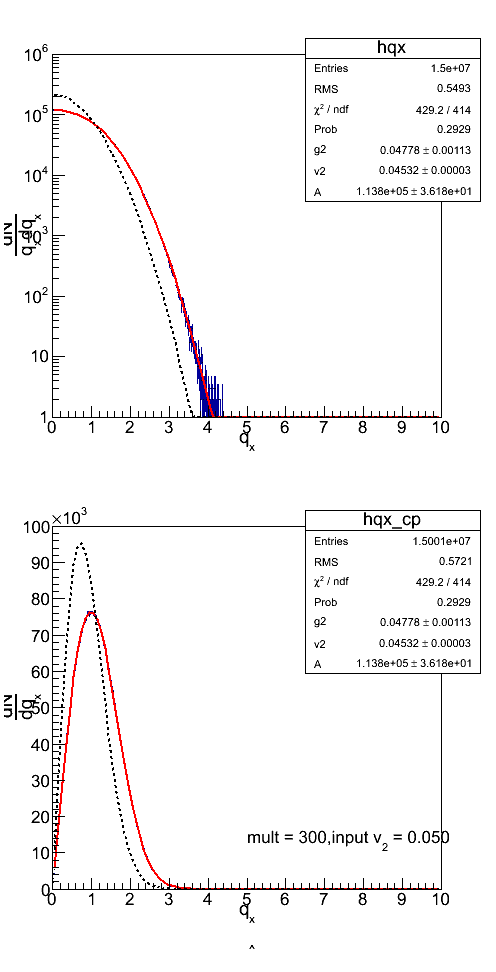
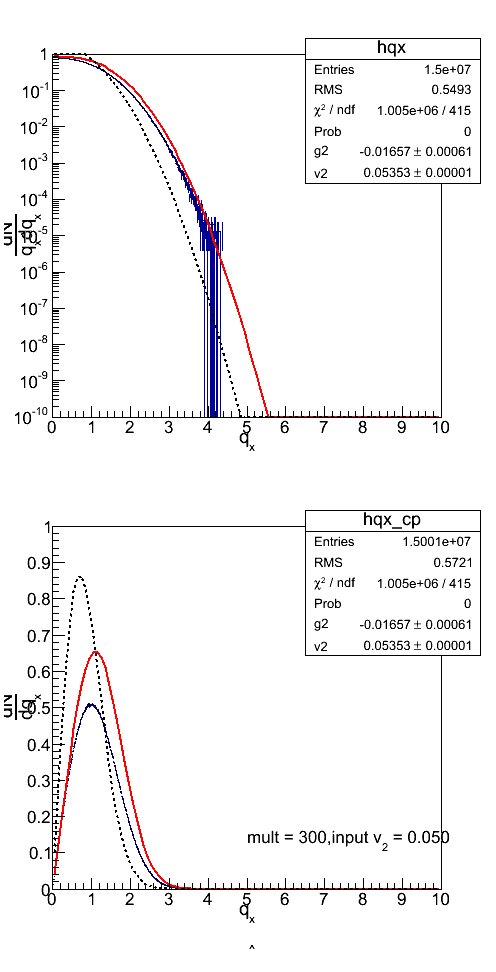
besselrefit

diff --git a/flow/Bessfun/pPbDataV205m300/plotqfit.C b/flow/Bessfun/pPbDataV205m300/plotqfit.C
@@ -17,24 +17,24 @@ t->SetTextFont(42);
 TH1D* hq = (TH1D*)f->Get(Form("D_%d/D_%d/hq",xbin,xtheta));
 TH1D* hqx = (TH1D*)f->Get(Form("D_%d/hqx",xbin));
 TH1D* hqy = (TH1D*)f->Get(Form("D_%d/hqy",xbin));
-        //hq->Scale(1./hq->Integral(0,-1));
+        hq->Scale(1./hq->Integral(0,-1,"width"));
         // multiplyByBinCenter(hq[ibin][itheta]);
         //normalizeByBinWidth(hq);
-        //hqx->Scale(1./hqx->Integral(0,-1));
+        hqx->Scale(1./hqx->Integral(0,-1,"width"));
         //multiplyByBinCenter(hqx[ibin]);
         //normalizeByBinWidth(hqx);
-        //hqy->Scale(1./hqy->Integral(0,-1));
+        hqy->Scale(1./hqy->Integral(0,-1,"width"));
         //multiplyByBinCenter(hqy[ibin]);
         //normalizeByBinWidth(hqy);
-ffit = new TF1(Form("ffit"),"[3]/(0.5*(1+[0]))*TMath::Exp(-([1]*[1]*[2]+x*x)/(1+[0]))*TMath::BesselI0(x*[1]*TMath::Sqrt([2])/(0.5*(1+[0])))",0,10);
-ffit0 = new TF1(Form("ffit0"),"[3]/(0.5*(1+[0]))*TMath::Exp(-([1]*[1]*[2]+x*x)/(1+[0]))*TMath::BesselI0(x*[1]*TMath::Sqrt([2])/(0.5*(1+[0])))",0,10);
-f1fit = new TF1(Form("f1fit"),"[3]*x/(0.5*(1+[0]))*TMath::Exp(-([1]*[1]*[2]+x*x)/(1+[0]))*TMath::BesselI0(x*[1]*TMath::Sqrt([2])/(0.5*(1+[0])))",0,10);
-f1fit0 = new TF1(Form("f1fit0"),"[3]*x/(0.5*(1+[0]))*TMath::Exp(-([1]*[1]*[2]+x*x)/(1+[0]))*TMath::BesselI0(x*[1]*TMath::Sqrt([2])/(0.5*(1+[0])))",0,10);
-ffit->SetParNames("g2","v2","M","A");
-ffit->SetParameters(0.05,0.05,avgmult[xbin],1e5);
+ffit = new TF1(Form("ffit"),"1./(0.5*(1+[0]))*TMath::Exp(-([1]*[1]*[2]+x*x)/(1+[0]))*TMath::BesselI0(x*[1]*TMath::Sqrt([2])/(0.5*(1+[0])))",0,10);
+ffit0 = new TF1(Form("ffit0"),"1./(0.5*(1+[0]))*TMath::Exp(-([1]*[1]*[2]+x*x)/(1+[0]))*TMath::BesselI0(x*[1]*TMath::Sqrt([2])/(0.5*(1+[0])))",0,10);
+f1fit = new TF1(Form("f1fit"),"x/(0.5*(1+[0]))*TMath::Exp(-([1]*[1]*[2]+x*x)/(1+[0]))*TMath::BesselI0(x*[1]*TMath::Sqrt([2])/(0.5*(1+[0])))",0,10);
+f1fit0 = new TF1(Form("f1fit0"),"x/(0.5*(1+[0]))*TMath::Exp(-([1]*[1]*[2]+x*x)/(1+[0]))*TMath::BesselI0(x*[1]*TMath::Sqrt([2])/(0.5*(1+[0])))",0,10);
+ffit->SetParNames("g2","v2","M");
+ffit->SetParameters(0.2,0.05,avgmult[xbin]);
 ffit->FixParameter(2,avgmult[xbin]);
-f1fit->SetParNames("g2","v2","M","A");
-f1fit->SetParameters(0.05,0.05,avgmult[xbin],1e5);
+f1fit->SetParNames("g2","v2","M");
+f1fit->SetParameters(0.2,0.05,avgmult[xbin]);
 f1fit->FixParameter(2,avgmult[xbin]);
 hq->Fit(Form("ffit"),"R","P",0,10);
 TCanvas *c2 = new TCanvas("c2","c2",500,1000);
@@ -44,9 +44,9 @@ fixedFontHist(hqx,1.6,2.0);
 hqx->SetTitle("");
 hqx->GetXaxis()->SetTitle("q_{x}");
 hqx->GetYaxis()->SetTitle("#frac{dN}{q_{x}dq_{x}}");
-hqx->GetYaxis()->SetRangeUser(1,1e6);
+hqx->GetYaxis()->SetRangeUser(1e-10,1);
 hqx->Fit(Form("ffit"),"R","",0,10);
-ffit0->SetParameters(ffit->GetParameter(0),0,ffit->GetParameter(2),ffit->GetParameter(3));
+ffit0->SetParameters(ffit->GetParameter(0),0,ffit->GetParameter(2));
 ffit0->SetLineColor(1);
 ffit0->SetLineStyle(2);
 ffit0->Draw("same");
@@ -55,9 +55,9 @@ TH1D* hqx_cp = (TH1D*)hqx->Clone("hqx_cp");
 fixedFontHist(hqx_cp,1.6,2.0);
 multiplyByBinCenter(hqx_cp);
 hqx_cp->GetYaxis()->SetTitle("#frac{dN}{dq_{x}}");
-hqx_cp->GetYaxis()->SetRangeUser(0,1e5);
+hqx_cp->GetYaxis()->SetRangeUser(0,1);
 hqx_cp->Fit(Form("f1fit"),"R","",0,10);
-f1fit0->SetParameters(f1fit->GetParameter(0),0,f1fit->GetParameter(2),f1fit->GetParameter(3));
+f1fit0->SetParameters(f1fit->GetParameter(0),0,f1fit->GetParameter(2));
 f1fit0->SetLineColor(1);
 f1fit0->SetLineStyle(2);
 f1fit0->Draw("same");
@@ -70,18 +70,18 @@ fixedFontHist(hqy,1.6,2.0);
 hqx->SetTitle("");
 hqy->GetXaxis()->SetTitle("q_{y}");
 hqy->GetYaxis()->SetTitle("#frac{dN}{q_{y}dq_{y}}");
-hqy->GetYaxis()->SetRangeUser(1,1e6);
+hqy->GetYaxis()->SetRangeUser(1e-10,1);
 hqy->Fit(Form("ffit"),"R","",0,10);
-ffit0->SetParameters(ffit->GetParameter(0),0,ffit->GetParameter(2),ffit->GetParameter(3));
+ffit0->SetParameters(ffit->GetParameter(0),0,ffit->GetParameter(2));
 ffit0->Draw("same");
 c3->cd(2);
 TH1D* hqy_cp = (TH1D*)hqy->Clone("hqy_cp");
 fixedFontHist(hqy_cp,1.6,2.0);
 multiplyByBinCenter(hqy_cp);
 hqy_cp->GetYaxis()->SetTitle("#frac{dN}{dq_{y}}");
-hqy_cp->GetYaxis()->SetRangeUser(0,1e5);
+hy_cp->GetYaxis()->SetRangeUser(0,1);
 hqy_cp->Fit(Form("f1fit"),"R","",0,10);
-f1fit0->SetParameters(f1fit->GetParameter(0),0,f1fit->GetParameter(2),f1fit->GetParameter(3));
+f1fit0->SetParameters(f1fit->GetParameter(0),0,f1fit->GetParameter(2));
 f1fit0->Draw("same");
 t->DrawLatex(0.5,0.2,Form("mult = %.f,input v_{2} = %.3f", avgmult[xbin], inV2));
 c2->Print("hqx_fit.png");
